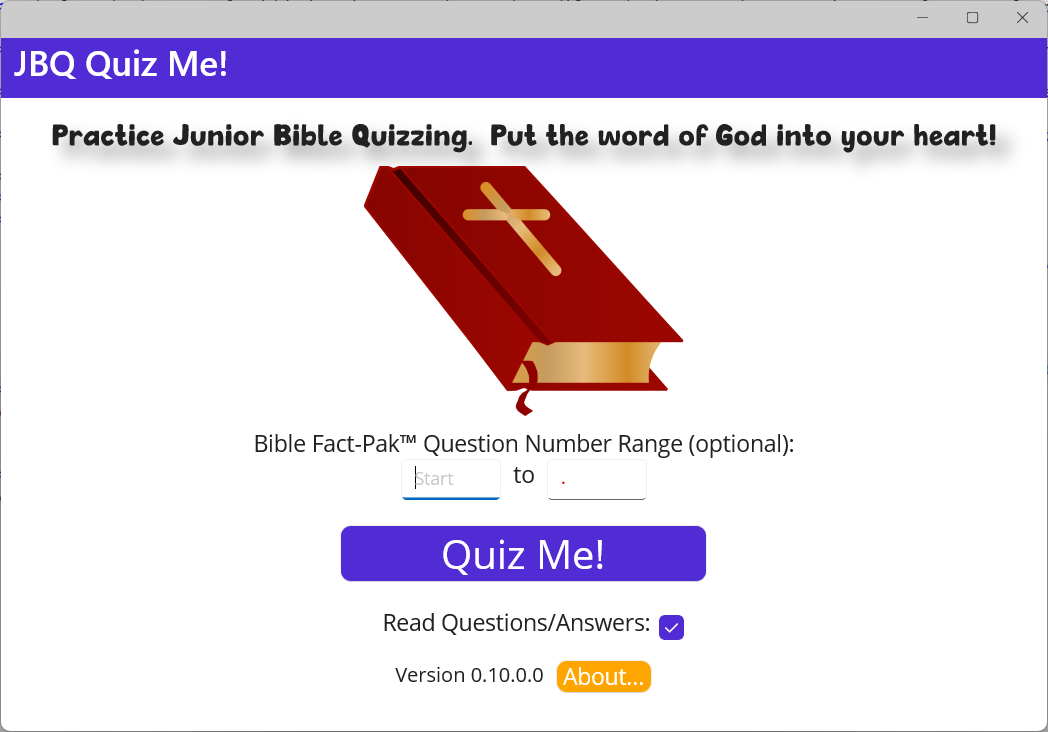
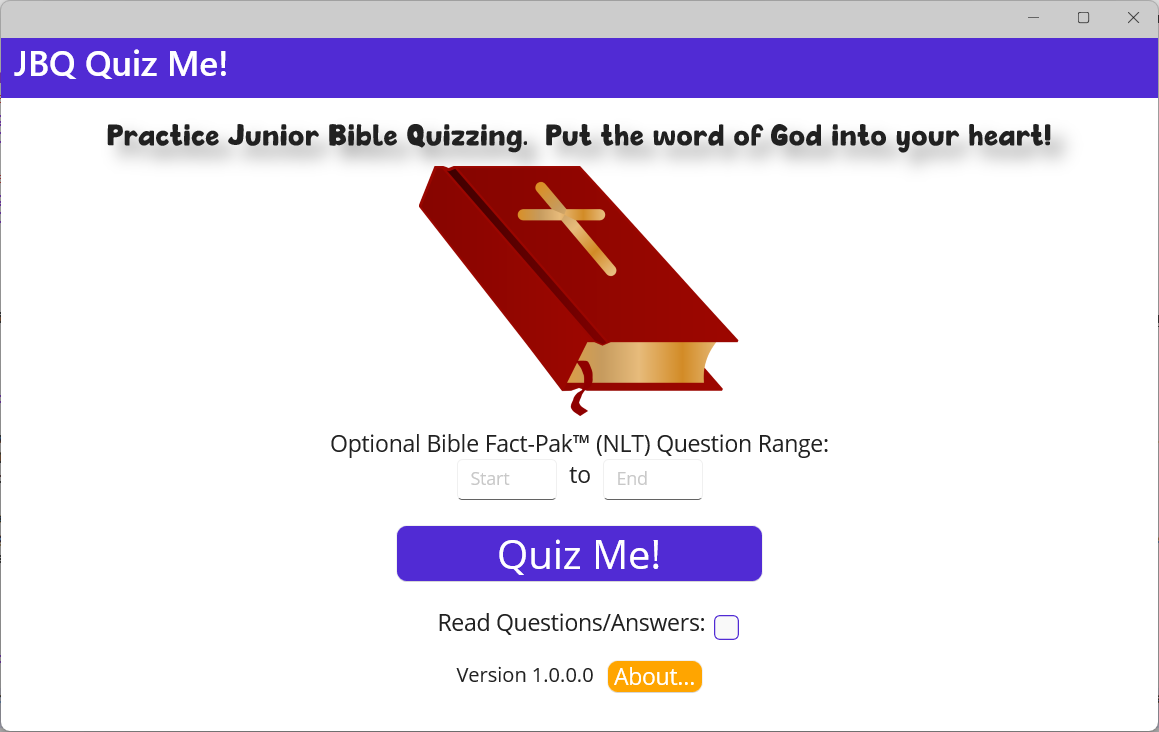
Documentation update

diff --git a/docs/index.html b/docs/index.html
@@ -72,32 +72,32 @@
         <ul>
             <li><b>🐢 Take it slow.</b> Kids can be easily overwhelmed learning new things.  The range of questions can be set (there are a total of 288 possible questions).  Work in sets of 10: 1-10, 11-20, 21-30, etc...</li>
             <li><b>👂 Consider using the 'Read Questions/Answers' option.</b> Even if your child can read, it might be beneficial to have this option turned on.  Especially if they are an 'auditory learner'.</li>
+			<li><b>🔁 Repeat, repeat, repeat.</b> Repetition can help kids gain confidence when giving answers.</li>
+			<li><b>🫂 Learn together.</b> If your child is learning new questions, sit down with them and go over the questions together.  The game will not repeat the same question until all questions have been asked at least once.</li>
         </ul>
 
         <hr />
 
         <h2 id="news"><a href="#top">News</a></h2>
 
-        <p><b>Version 0.11.0 (beta) is available!</b> Some problems were found with 0.10.5 when using text-to-speech. This update is strongly recommended.</p>
-        <p>A build is still not available for iOS.  I have spent many hours trying to get it to work.  Unfortunately, I need to wait for updates from Microsoft and a third party...</p>
-        <p><b>Version 0.10.5 (beta) is available!</b> General improvements to the game have been made.  A properly signed install for <u>MacOS</u> is now available.</p>
-        <p><b>Version 0.10.1 (beta) is out!</b> This is a build for updates released by Microsoft for MAUI.NET.  The main issue this fixes is the install issue with Windows 10.</p>
-        <p>I am still working on builds for iOS.  Apple has a strict process for releasing on iPhone and iPad.  I am slowly learning and making my through it...</p>
-        <p><b>Version 0.10.0 (beta) is out!</b>  The 'frog' and 'cloud' have been replaced with various animations when kids get right or wrong answers.  I think this will work better for keeping their attention to the game...</p>
+		<p><b>The first production version (v1.0.0) is here!</b> It is available on all major platforms (Windows, Android, MacOS, iOS).  It has been a long journey but we are finally here!</p>
 
         <hr />
 
         <h2 id="downloads"><a href="#top">Downloads</a></h2>
-        <h3>Latest (v0.10.5 beta)</h3>
+        <h3>Latest (v1.0.0)</h3>
         <ul>
             <li>
-                <a href="https://github.com/pvoelker/JBQQuizMe/releases/download/0.11.0-beta/JBQQuizMeApp_0.11.0.0_x64.msix">Windows 10/11 (64-bit)</a>
+                <a href="https://github.com/pvoelker/JBQQuizMe/releases/download/1.0.0-production/JBQQuizMeApp_1.0.0.0_x64.msix">Windows 10/11 (64-bit)</a>
             </li>
             <li>
-			    <a href="https://github.com/pvoelker/JBQQuizMe/releases/download/0.11.0-beta/pauledwardvoelker.jbqquizme-Signed.apk">Android</a>
+			    <a href="https://github.com/pvoelker/JBQQuizMe/releases/download/1.0.0-production/pauledwardvoelker.jbqquizme-Signed.apk">Android (tablets and phones)</a>
 			</li>
             <li>
-                <a href="https://github.com/pvoelker/JBQQuizMe/releases/download/0.11.0-beta/JBQQuizMe-0.11.0.pkg">MacOS (Apple desktop laptop)</a>
+                <a href="https://github.com/pvoelker/JBQQuizMe/releases/download/1.0.0-production/JBQQuizMe-1.0.0.pkg">MacOS (Apple desktop laptop)</a>
+            </li>
+			<li>
+                <a href="https://apps.apple.com/us/app/jbq-quiz-me/id6445904473">iOS (Apple iPad and iPhone) via the Apple App Store</a>
             </li>
         </ul>
 

diff --git a/README.md b/README.md
@@ -9,4 +9,4 @@ Simple quizzing game for kids based on Junior Bible Quizzing (JBQ) 10-point ques
 - My son Matthew for helping with beta testing
 
 ## Where to Get
-- [Game Information and Download Page](https://github.com/pvoelker/JBQQuizMe)
+- [Game Information and Download Page](https://pvoelker.github.io/JBQQuizMe/)
